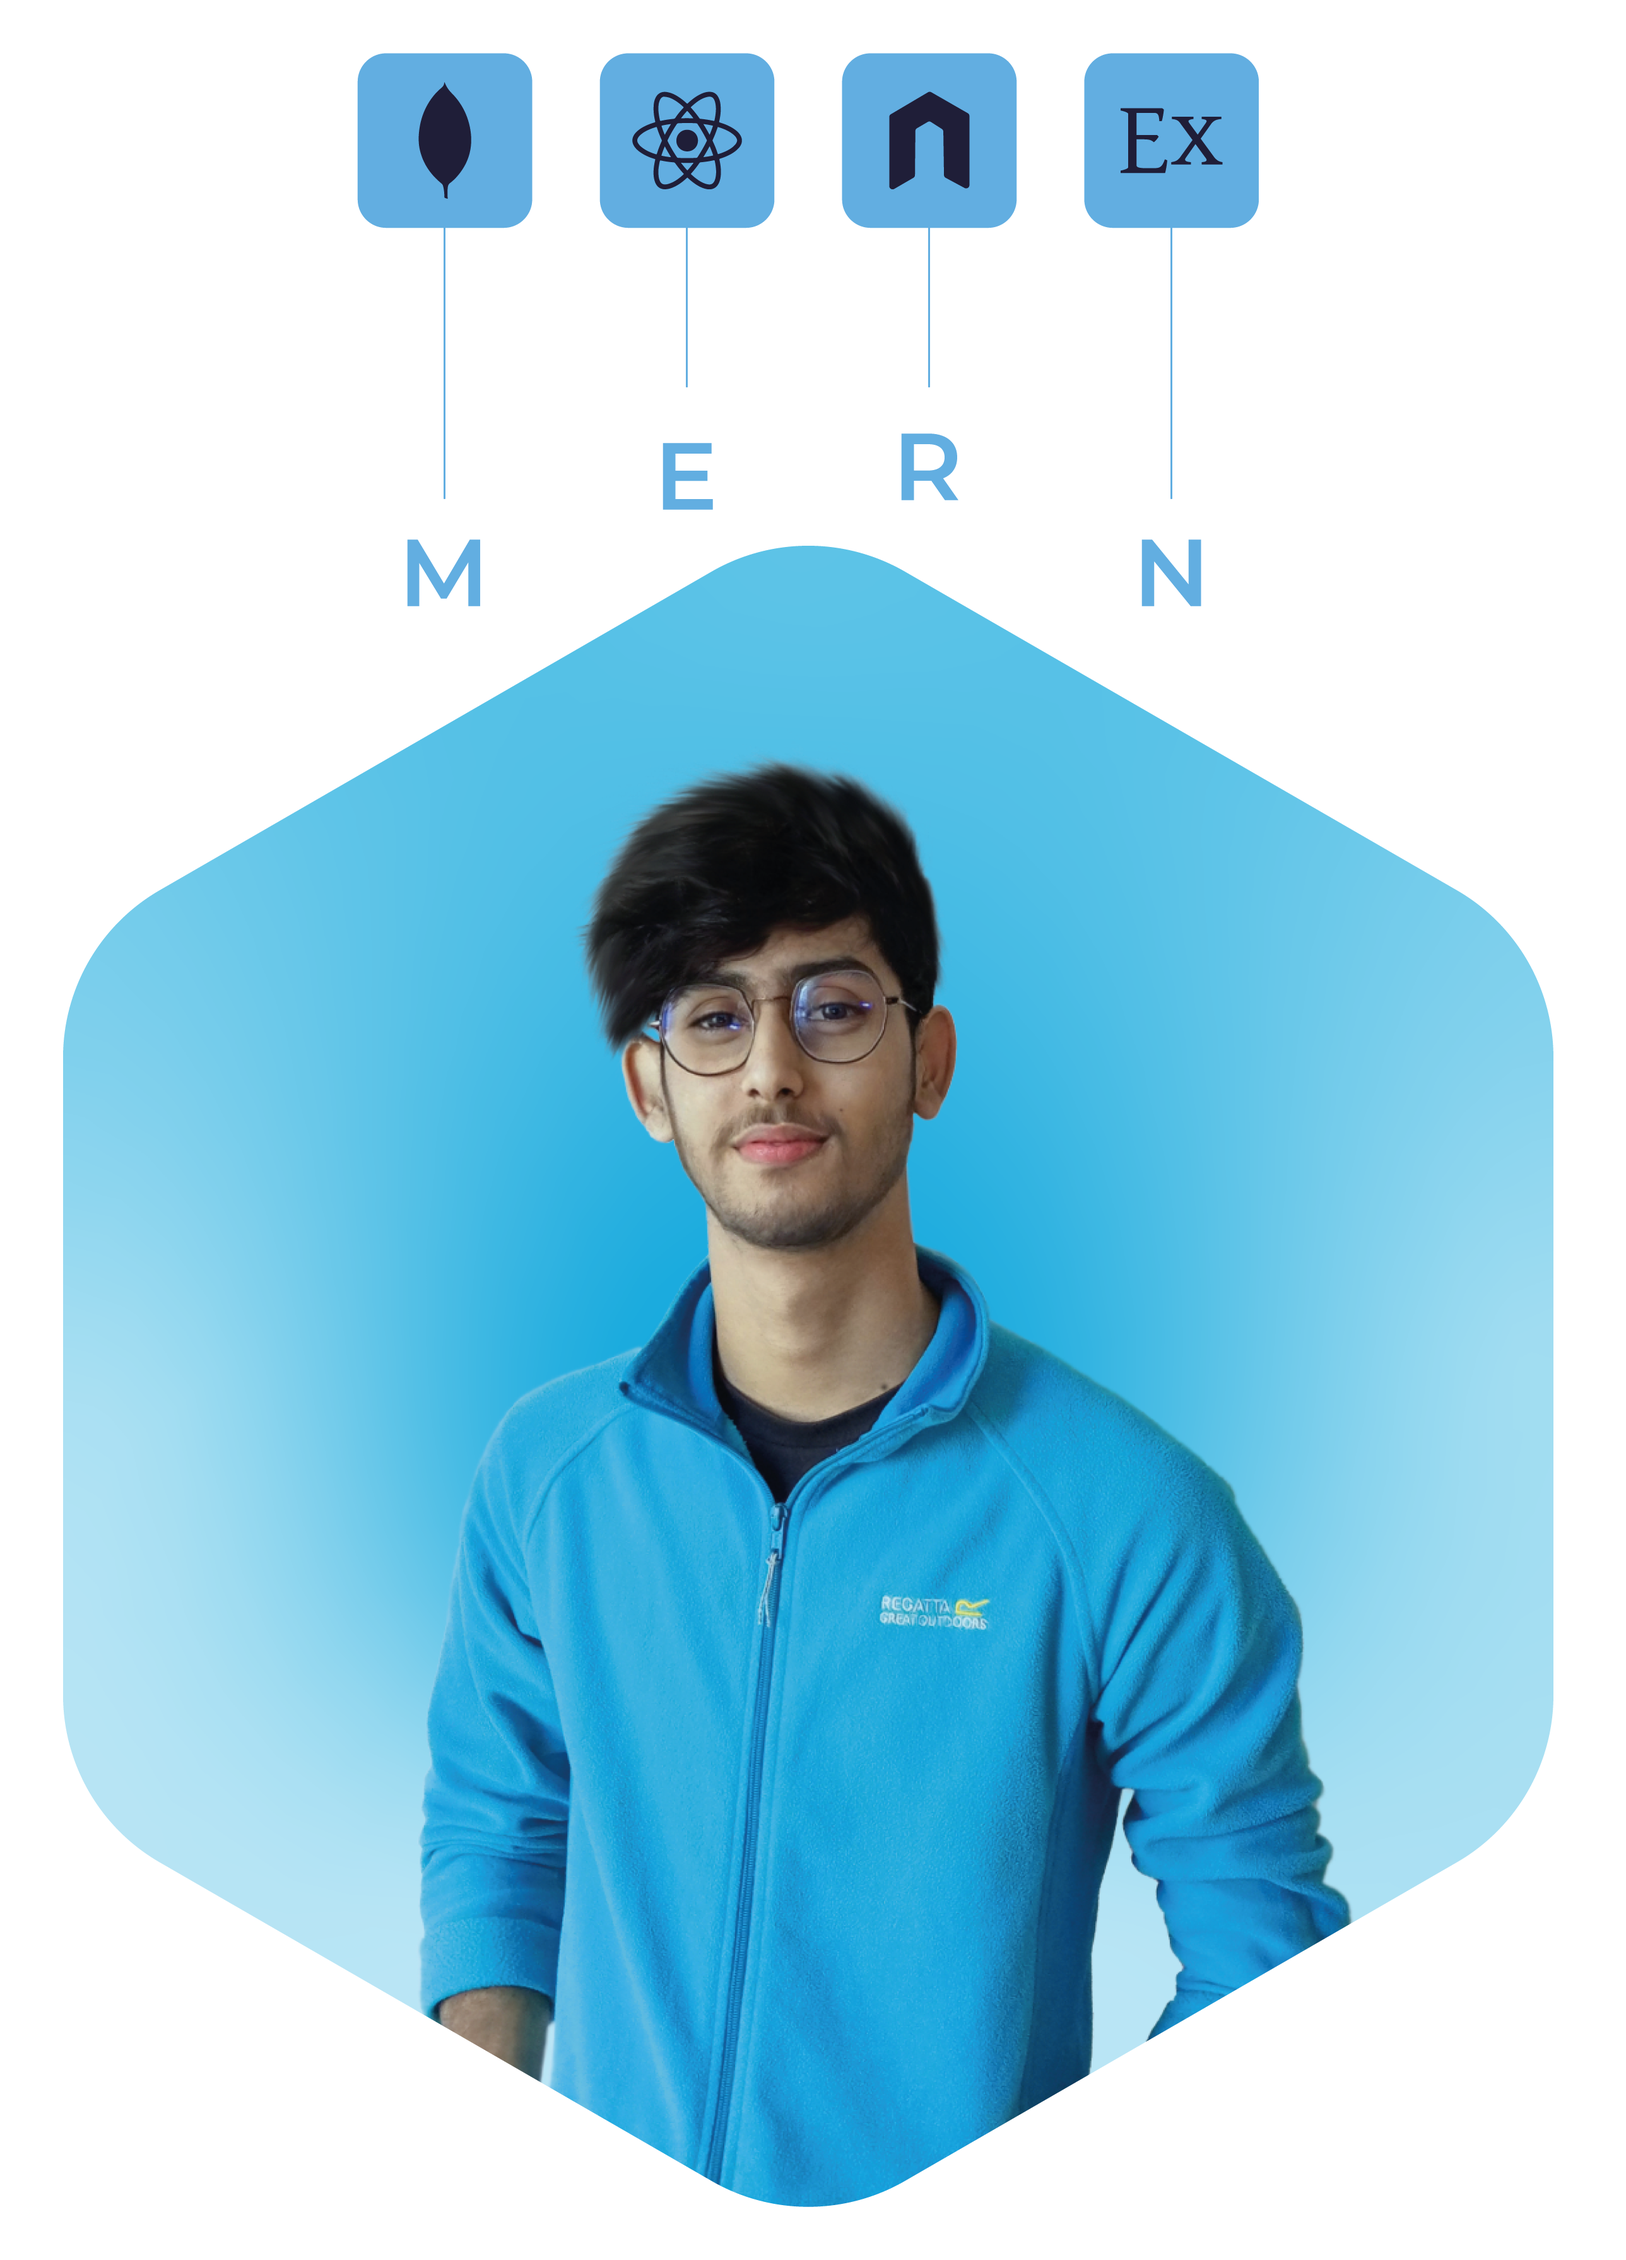
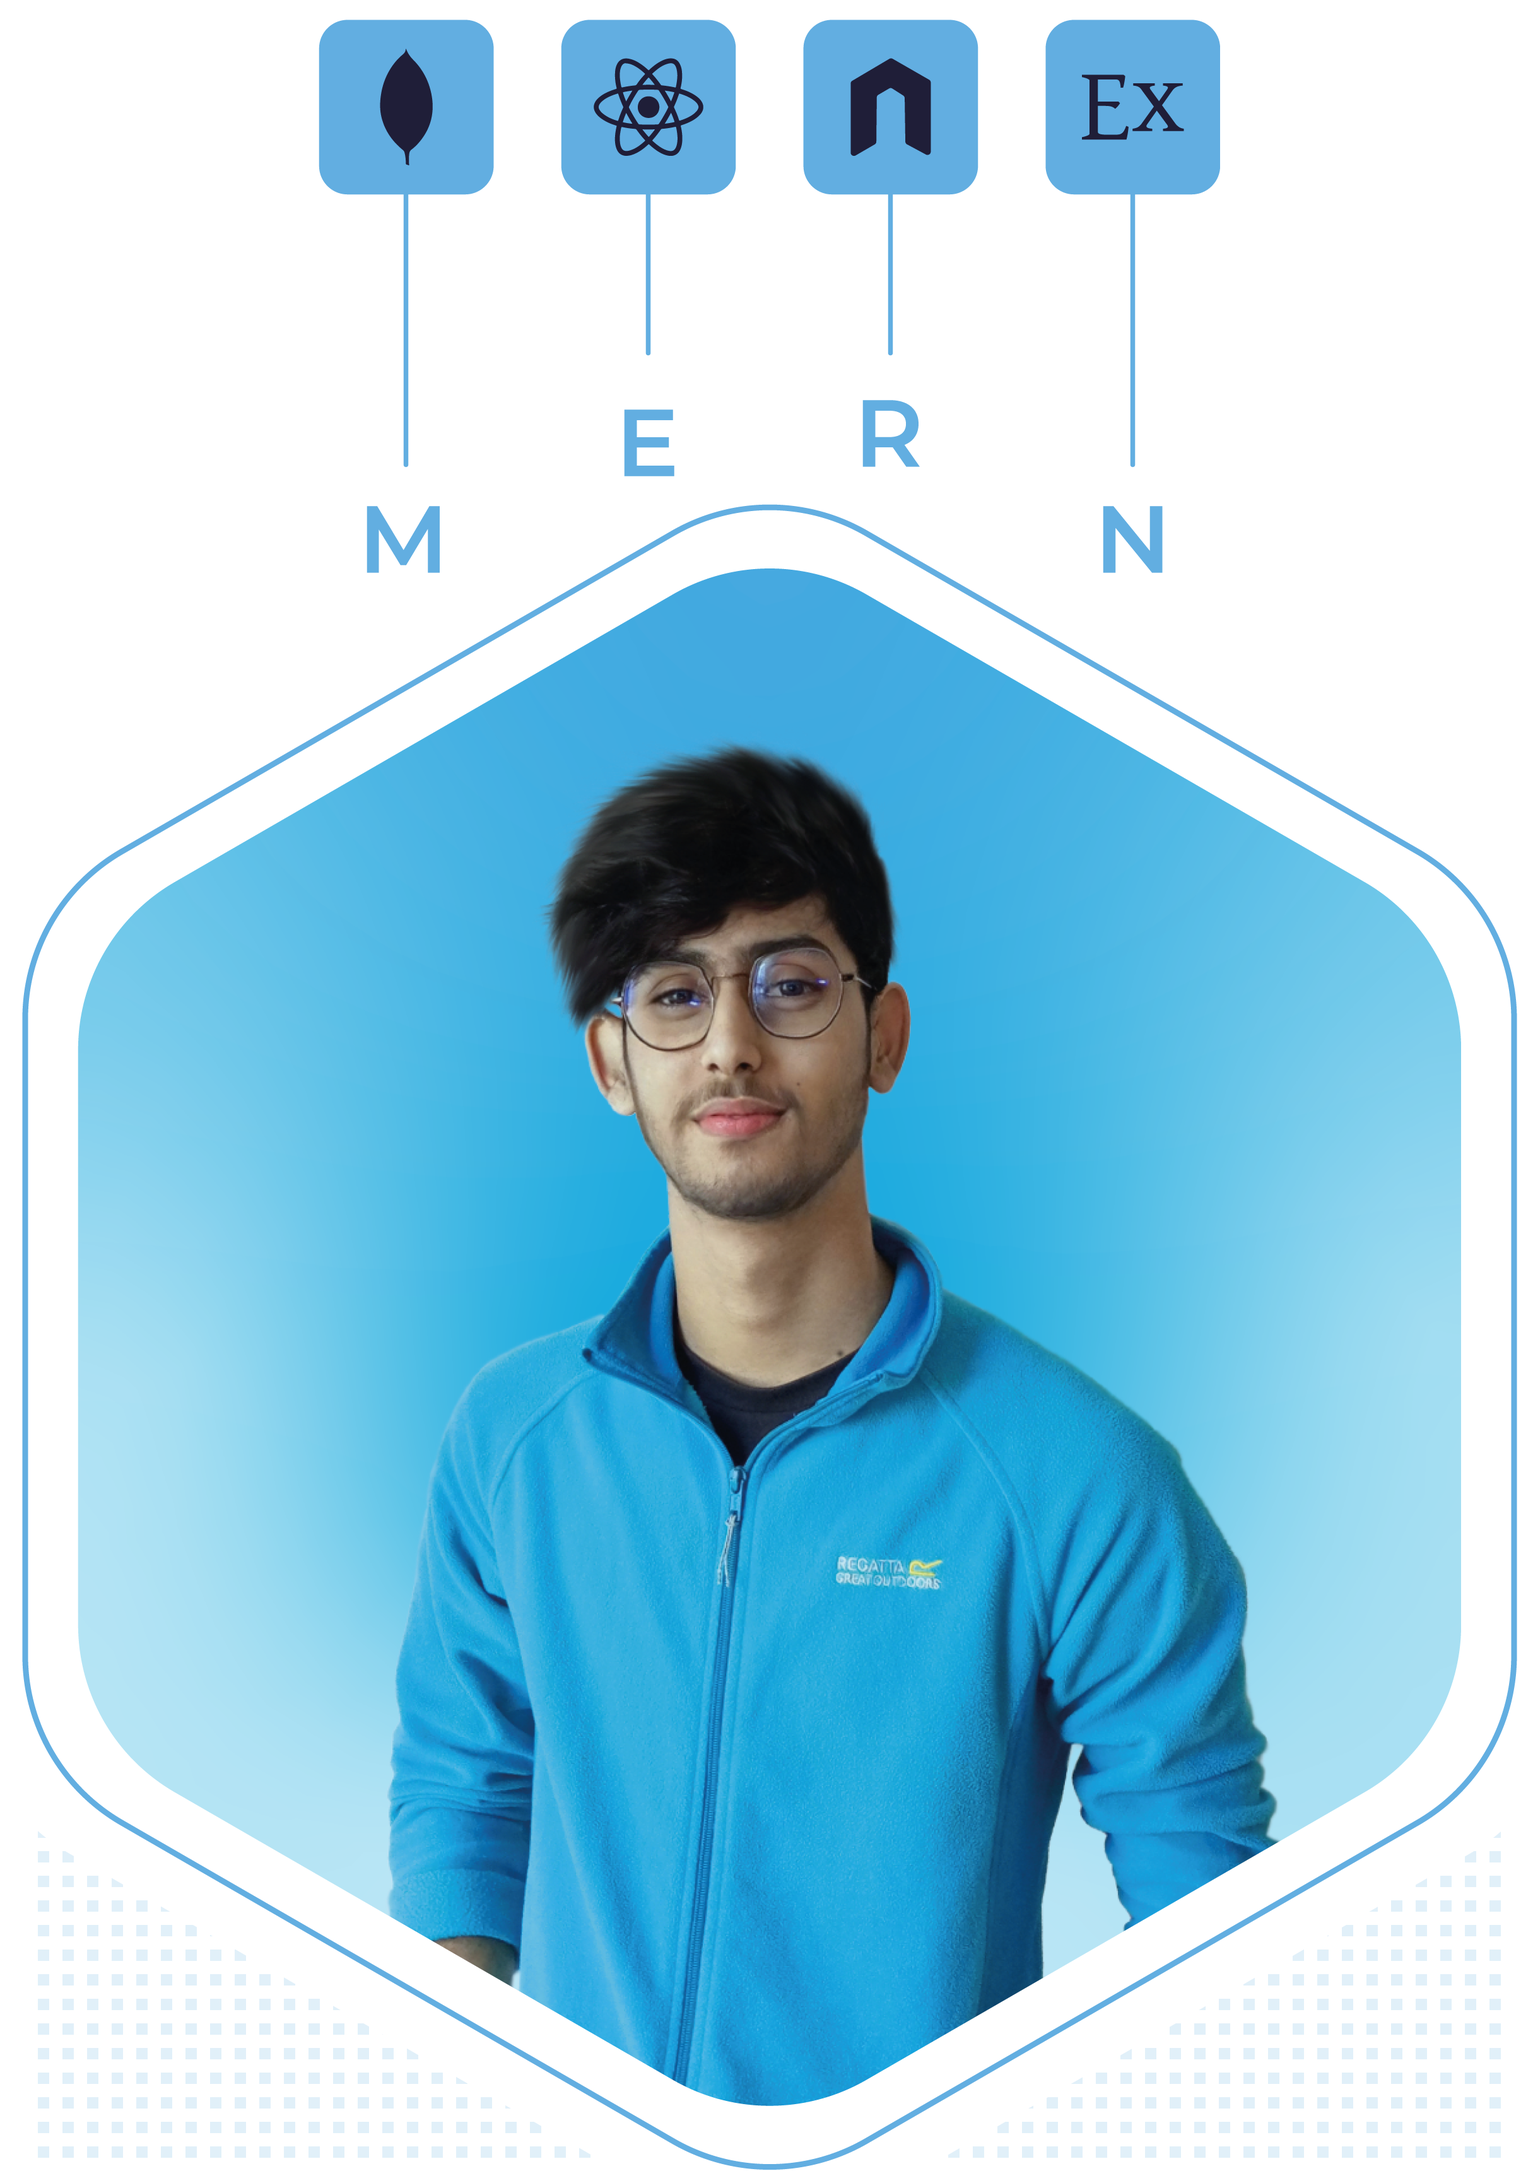
Brand section added

diff --git a/src/Components/Brand/Brand.js b/src/Components/Brand/Brand.js
@@ -1,0 +1,34 @@
+import React from 'react';
+import icon1 from '../../../src/Assets/google.png'
+import icon2 from '../../../src/Assets/facebook.png'
+import icon3 from '../../../src/Assets/sportify.png'
+import icon4 from '../../../src/Assets/Nike.png'
+import icon5 from '../../../src/Assets/slack.png'
+import './Brand.css'
+
+const Brand = () => {
+    return (
+        <div className='container Brand__container'>
+            <div className='line'></div>
+            <div className="brand__items">
+            <div className="item">
+              <img src={icon1} alt="" srcset="" />
+            </div>
+            <div className="item">
+              <img src={icon2} alt="" srcset="" />
+            </div>
+            <div className="item">
+              <img src={icon3} alt="" srcset="" />
+            </div>
+            <div className="item">
+              <img src={icon4} alt="" srcset="" />
+            </div>
+            <div className="item">
+              <img src={icon5} alt="" srcset="" />
+            </div>
+          </div>
+        </div>
+    );
+};
+
+export default Brand;

diff --git a/src/Components/Experience/Experience.js b/src/Components/Experience/Experience.js
@@ -2,6 +2,7 @@ import React from "react";
 import img from '../../../src/Assets/Ex-bg.png'
 import "./Experience.css";
 
+
 const Experience = () => {
   return (
     <section id="experience">
@@ -39,7 +40,6 @@ const Experience = () => {
               </small>
             </article>
           </div>
-          
         </div>
 
         <div className="exp__detail">
@@ -49,6 +49,7 @@ sector for the last 3 years. In 2019, I achieved the creative designer award fro
 paradise it institutions. I enjoy creative designing & I am interested in learning new technology.</h5>
 <small>I have a strong foundation in graphic and interactive design, and an interest in user centred branding and visual systems, understanding their potential within digital spaces.</small>
         </div>
+
       </div>
     </section>
   );

diff --git a/src/Components/Brand/Brand.css b/src/Components/Brand/Brand.css
@@ -1,0 +1,32 @@
+.Brand__container{
+    margin-top: 5rem;
+}
+.line{
+    width: 100%;
+    height: 2px;
+    background: var(--color-primary-variant);
+    margin-bottom: 5rem;
+}
+.brand__items{
+    display: grid;
+    grid-template-columns: repeat(5,1fr);
+    gap: 4rem;
+    align-items: center;
+    justify-items: center;
+}
+.brand__items img{
+    width: 150px;
+}
+/* .brand__item{
+    display: grid;
+    grid-template-columns: repeat(5,1fr);
+    gap: 4rem;
+} */
+
+ /* --------------- Media queries (small Devices)------------- */
+ @media screen and (max-width: 600px){
+    .brand__items{
+        grid-template-columns: repeat(2,1fr);
+        gap: 2rem;
+    }
+  }

diff --git a/src/App.js b/src/App.js
@@ -1,6 +1,7 @@
 
 import './App.css';
 import About from './Components/About/About';
+import Brand from './Components/Brand/Brand';
 import Contact from './Components/Contact/Contact';
 import Experience from './Components/Experience/Experience';
 import Header from './Components/Header/Header';
@@ -19,6 +20,7 @@ function App() {
       <Navbar/>
       <About/>
       <Experience/>
+      <Brand/>
       <Skills/>
       <Service/>
       <Portfolio/>

diff --git a/src/Components/Header/Header.css b/src/Components/Header/Header.css
@@ -46,11 +46,11 @@ height: 30rem;
 position: absolute;
 left: 50%;
 transform: translate(-50%);
-margin-top: 4rem;
+margin-top: 2rem;
 /* border-radius: 12rem 12rem 2rem 2rem ; */
 overflow: hidden;
 /* padding: 2rem 1.5rem 1.5rem 1.6rem; */
-padding: 0rem 0rem 0rem 2rem;
+padding: 1rem;
 }
 
 .scroll__down {

diff --git a/src/Components/Experience/Experience.css b/src/Components/Experience/Experience.css
@@ -41,6 +41,8 @@
     align-items: center;
 }
 
+
+
 /* .ex-items{
     margin: -20px;
 } */
